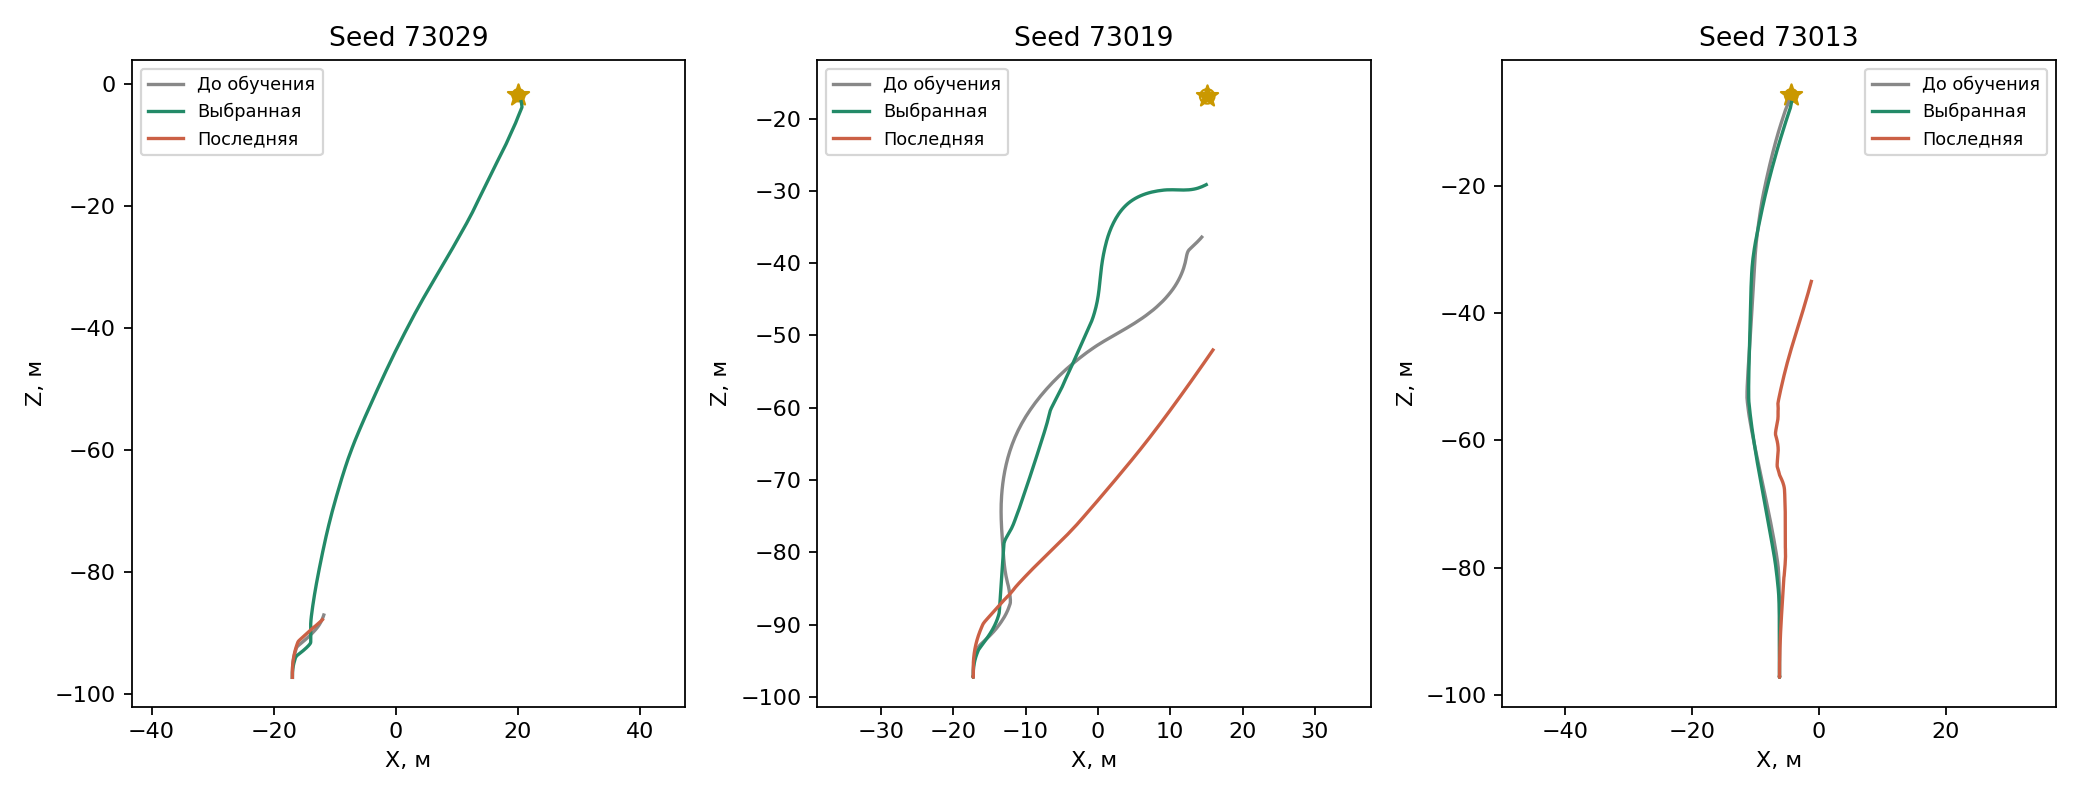
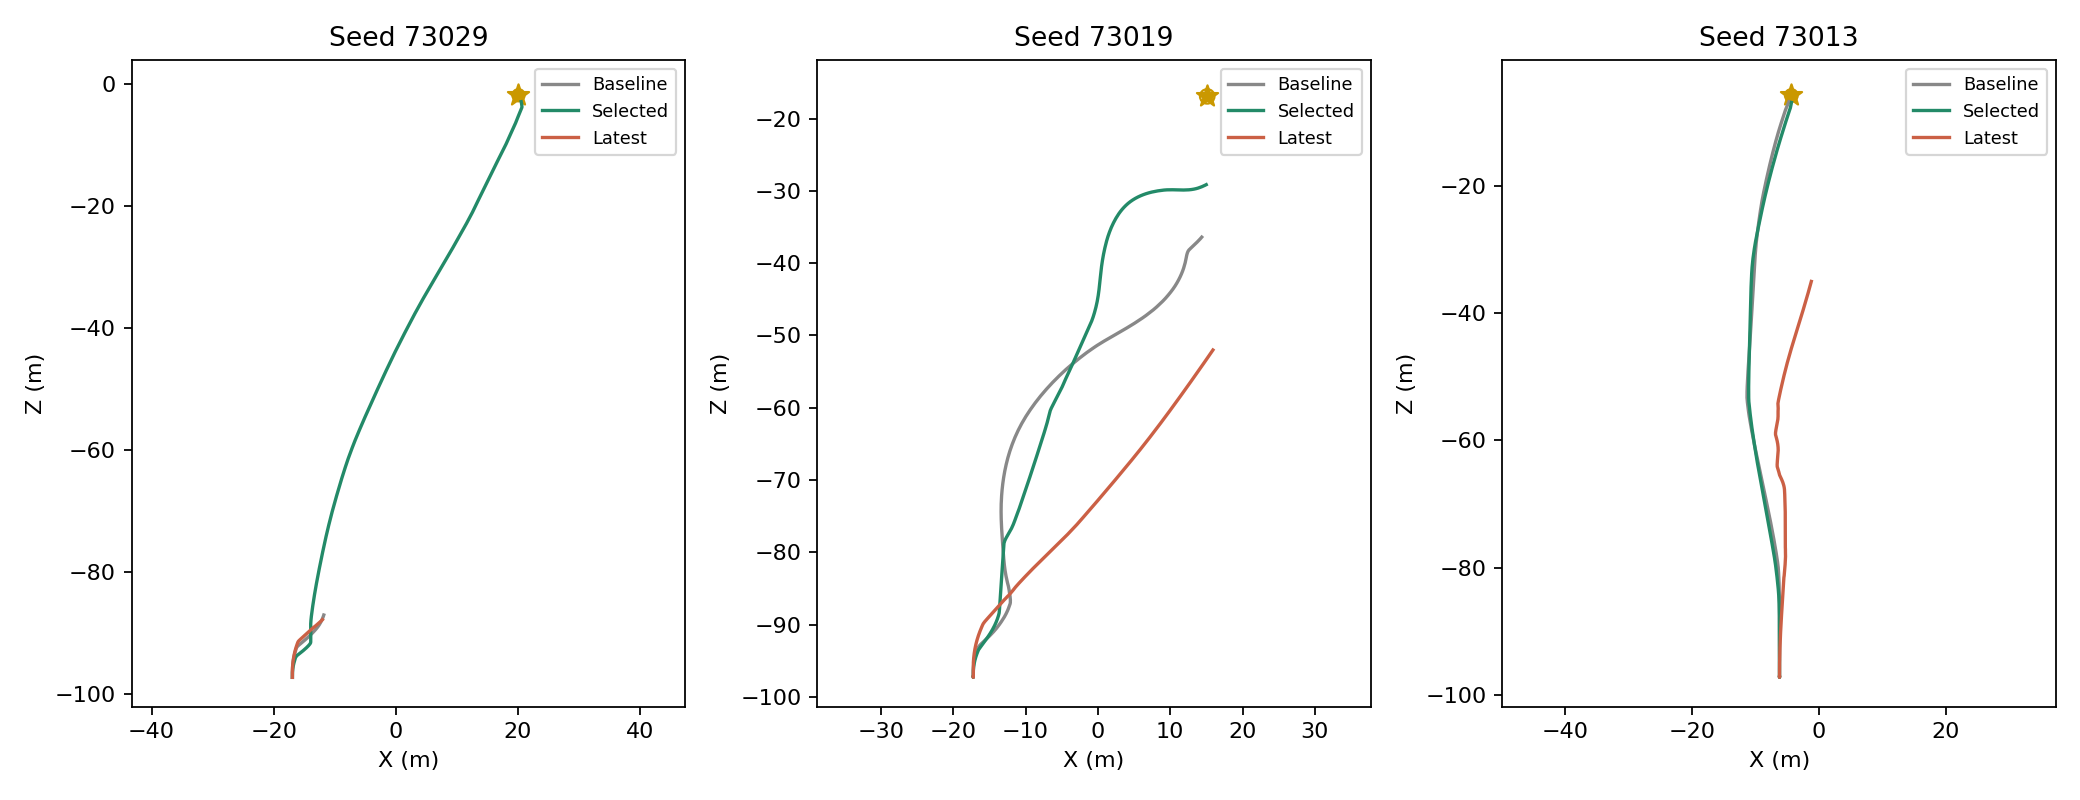
Translate GPS evaluation report and figures into English

diff --git a/docs/experiments/gps-50-100-2026-10-21.md b/docs/experiments/gps-50-100-2026-10-21.md
@@ -1,40 +1,40 @@
-# GPS-навигация 50–100 м — отчёт за 21 октября 2026
+# GPS navigation over 50–100 m — October 21, 2026
 
-**Выбранная модель прошла 49 из 50 независимых тестовых маршрутов с одним столкновением.** Критерий этапа — минимум 48/50 успехов и максимум одно столкновение — выполнен.
+**The selected model completed 49 of 50 independent test routes, with one collision.** It met the stage acceptance criterion of at least 48/50 successes and at most one collision.
 
-## Сравнение на одинаковых мирах
+## Comparison on the same test worlds
 
-| Модель | Успехи | Столкновения | Таймауты | Средняя длительность попытки | Средняя награда |
+| Model | Successes | Collisions | Timeouts | Mean attempt duration | Mean return |
 |---|---:|---:|---:|---:|---:|
-| До обучения | 48/50 | 2 | 0 | 51.01 с | 4.3676 |
-| Выбранная модель | 49/50 | 1 | 0 | 50.46 с | 4.5073 |
-| Последняя модель | 36/50 | 14 | 0 | 51.46 с | 3.5311 |
+| Baseline | 48/50 | 2 | 0 | 51.01 s | 4.3676 |
+| Selected model | 49/50 | 1 | 0 | 50.46 s | 4.5073 |
+| Latest model | 36/50 | 14 | 0 | 51.46 s | 3.5311 |
 
-Выбрана контрольная точка **40,960 новых обучающих шагов**. Она выбиралась по отдельной валидации, до итоговой тестовой проверки. `latest.pt` соответствует шагу 100000 и существенно хуже. Средняя длительность включает неуспешные попытки.
+The selected checkpoint was saved after **40,960 new training actions**. It was selected using separate validation worlds before the final test. The `latest.pt` checkpoint at step 100000 performed substantially worse. Mean duration includes unsuccessful attempts.
 
-![Результаты](images/gps-50-100-results.png)
+![Evaluation results](images/gps-50-100-results.png)
 
-## Условия и протокол
+## Setup and evaluation protocol
 
-- Прежняя карта и физика; профиль `gps_50_100`, цели задаются на 50–100 м вперёд по Z. На извилистой дороге фактическое прямое GPS-расстояние может быть немного больше.
-- Старт с известной ориентацией на север. Курс оценивается по GPS course и гироскопу. Датчики идеальные, без калиброванных ошибок и задержек.
-- Физика 50 Гц, команды 10 Гц, лимит эпизода 240 с, радиус достижения цели 1 м.
-- Предварительный перенос без обучения: seed 71001–71099, 48/50 успехов и два столкновения. Этот набор отличается от итогового теста.
-- Валидация: 12 нечётных seed 72001–72023, примерно каждые 10000 действий. Выбор по успехам, затем столкновениям, затем награде.
-- Итоговый тест: 50 нечётных seed 73001–73099, одинаковых для исходной, выбранной и последней моделей. Тестовые результаты не использовались для выбора контрольной точки. Обучающие миры имеют чётные seed.
-- PPO продолжен с лучшей модели этапа 30–50 м; learning rate 1e-4, новый оптимизатор. Остальные параметры и формат наблюдений сохранены.
+- The map and physics were unchanged. The `gps_50_100` profile places goals 50–100 m ahead along Z. Actual straight-line GPS distance can be slightly greater on the winding road.
+- Each episode starts with a known north-facing orientation. Heading is estimated from GPS course and the gyroscope. Sensors are ideal, without calibrated noise or latency.
+- Physics runs at 50 Hz and commands at 10 Hz. Episodes have a 240 s timeout and a 1 m goal radius.
+- The preliminary transfer test without training used odd seeds 71001–71099: 48/50 successes and two collisions. These worlds are separate from the final test set.
+- Validation uses 12 odd seeds 72001–72023, approximately every 10000 actions. Checkpoints are ranked by success, then collisions, then return.
+- The final test uses 50 odd seeds 73001–73099, shared by the baseline, selected and latest models. Test results were not used to select the checkpoint. Training worlds use even seeds.
+- PPO continued from the best 30–50 m checkpoint with a learning rate of 1e-4 and a fresh optimizer. Other parameters and the observation format were unchanged.
 
-Завершено ровно **100000 новых обучающих действий**, 391 PPO-обновлений и 2894 обновлений оптимизатора. За обучение: 181/184 успешных эпизодов, 3 столкновения. Обучение с исходной, периодическими и итоговыми проверками заняло **69.02 минуты**; предварительный перенос в это время не входит.
+Training completed exactly **100000 new actions**, 391 PPO updates and 2894 optimizer steps. Training episodes: 181/184 successes and three collisions. Training, baseline evaluation, periodic validation and final evaluations took **69.02 minutes**, excluding the preliminary transfer test.
 
-## Траектории
+## Trajectories
 
-Показаны восстановленные и неудачные маршруты с сопоставлением трёх моделей. Это диагностические примеры, а не дополнительный набор для выбора весов.
+The plots compare the three models on representative recovered and failed routes. They are diagnostic examples, not an additional checkpoint selection set.
 
-![Траектории](images/gps-50-100-routes.png)
+![Route trajectories](images/gps-50-100-routes.png)
 
-## Результаты по каждому тестовому миру
+## Per-world test results
 
-| Seed | До обучения | Выбранная модель | Последняя модель | Время выбранной, с |
+| Seed | Baseline | Selected model | Latest model | Selected model duration (s) |
 |---|---|---|---|---:|
 | 73001 | success | success | success | 58.42 |
 | 73003 | success | success | success | 66.90 |
@@ -87,12 +87,12 @@
 | 73097 | success | success | success | 36.68 |
 | 73099 | success | success | success | 37.06 |
 
-## Проверка и происхождение артефактов
+## Artifact checks and provenance
 
[2 lines of base64/hex data omitted]
 
[2 lines of base64/hex data omitted]
 
-Локальные артефакты исходной рабочей папки: `runs/gps_50_100_stage/best.pt`, `manifest.json`, `summary.json`, `training/summary.json`, `training/audit.json` и траектории. Веса, сборки, камеры и полные журналы не включены в Git. Здесь опубликованы отчёт, графики и компактная таблица результатов.
+Local artifacts in the original workspace include `runs/gps_50_100_stage/best.pt`, `manifest.json`, `summary.json`, `training/summary.json`, `training/audit.json` and trajectories. Weights, builds, camera data and full logs are excluded from Git. This publication contains the report, plots and a compact results table.
 
-Результат относится к этому симулятору и 50 тестовым мирам. Один провал остаётся; другие стартовые направления, цепочки точек и перенос на реального робота этим экспериментом не проверялись. Этап 100–150 м не запускался.
+These results apply to this simulator and the 50 test worlds. One failure remains. Other starting headings, waypoint chains and deployment to the physical robot were not tested in this experiment. The 100–150 m stage has not been started.
